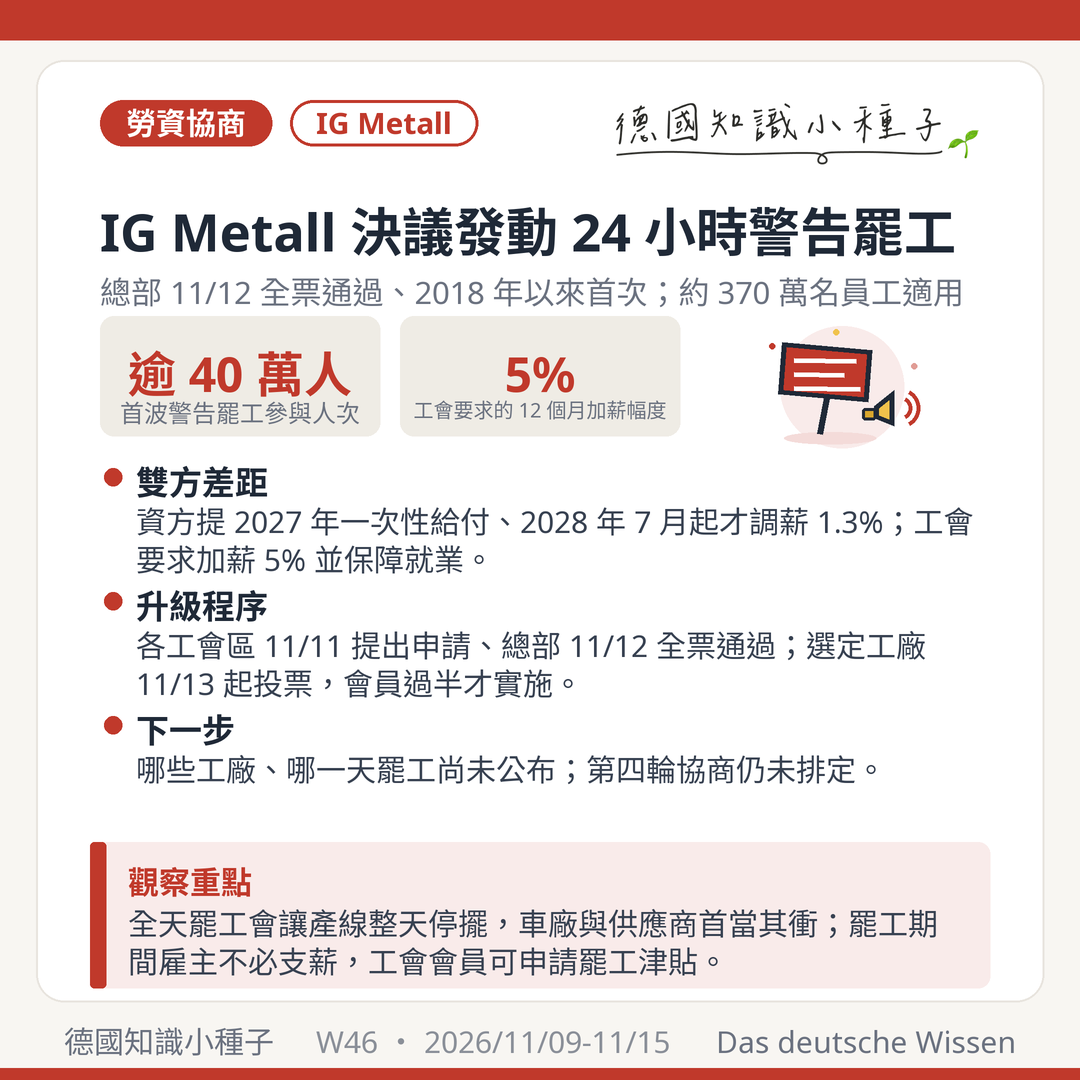
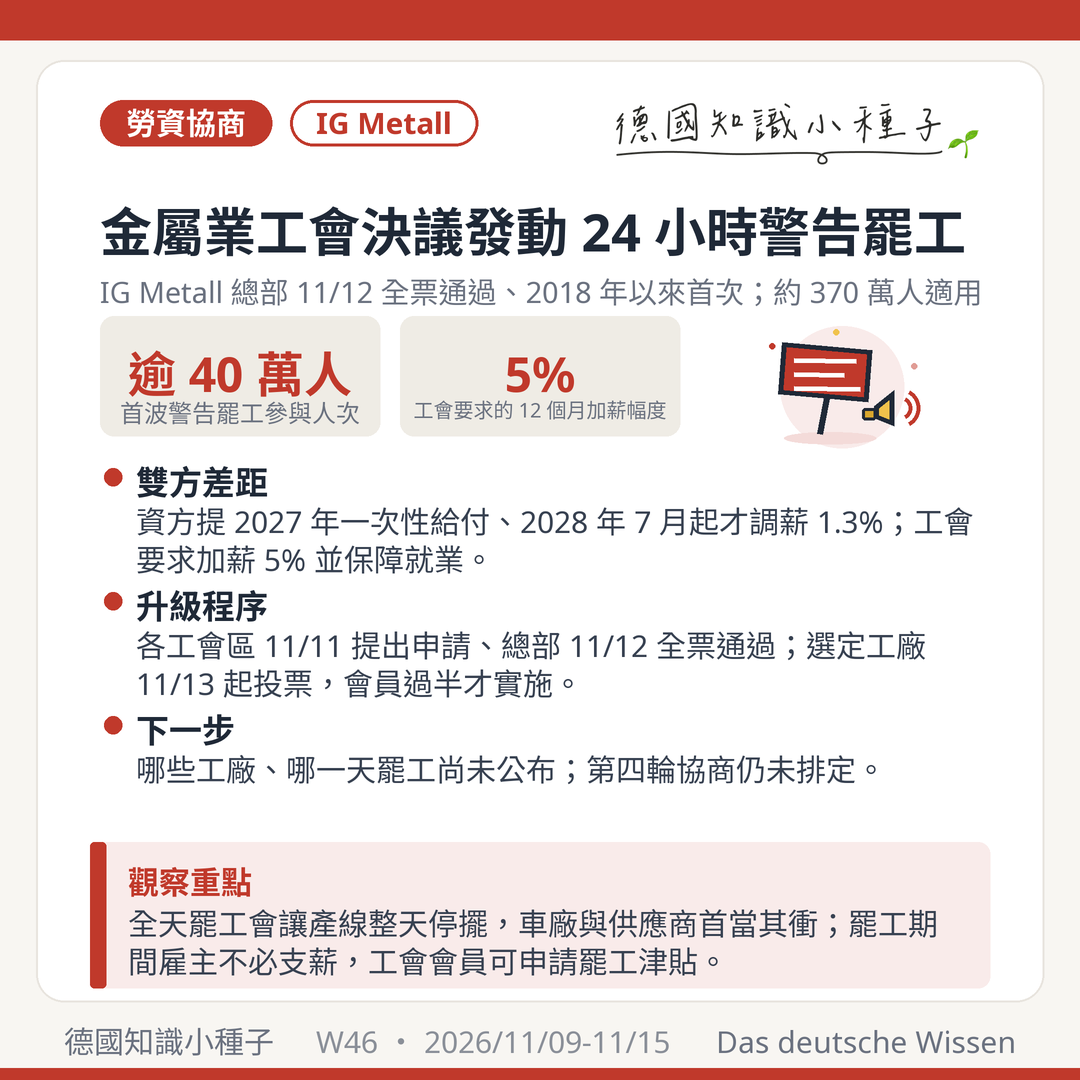
W46 標題改白話：「五賢人」→「政府經濟顧問」、「IG Metall」→「金屬業工會」，俗稱改在內文解釋
- 圖卡1 改名並重產（W46_圖卡1_經濟顧問建議取消63歲退休.png）、圖卡4 標題改「金屬業工會決議發動 24 小時警告罷工」
- data.js：excerpt／TOC／h2／lead／h3 改白話，卡1 新增「誰在建議」段說明經濟專家委員會與「五賢人」俗稱由來
- FB／IG／Threads 與 posts.json 同步；重建靜態頁
- CLAUDE.md 編輯方針新增「標題要淺顯易懂」

Changed region(s): [[0.0917, 0.1833, 0.9167, 0.3056]]

diff --git a/posts/weekly-digest.html b/posts/weekly-digest.html
@@ -6,15 +6,15 @@
 <meta name="viewport" content="width=device-width, initial-scale=1.0" />
 <meta name="referrer" content="strict-origin-when-cross-origin" />
 <title>德國知識小種子週報精選 | 德國知識小種子</title>
-<meta name="description" content="先看退休與荷包：經濟專家委員會（俗稱「五賢人」）11 月 11 日發表年度報告，把 2026 年經濟成長預測從 0.5% 上修到 1.3%，卻同時建議取消「63 歲退休」、撤回母親年金擴大，警告支出成長快於收入；內閣同日通過國家天然氣戰略儲備草案，目標 24 TWh，2027 年 10 月起向瓦斯用戶加收附加費，一般家" />
+<meta name="description" content="先看退休與荷包：聯邦政府的經濟顧問機構「經濟專家委員會」11 月 11 日發表年度報告，把 2026 年經濟成長預測從 0.5% 上修到 1.3%，卻同時建議取消「63 歲退休」、撤回母親年金擴大，警告支出成長快於收入；內閣同日通過國家天然氣戰略儲備草案，目標 24 TWh，2027 年 10 月起向瓦斯用戶加收附加費" />
 <meta name="robots" content="index, follow" />
 <link rel="canonical" href="https://taiwanese-in-germany.com/posts/weekly-digest.html" />
 <meta property="og:type" content="article" />
 <meta property="og:site_name" content="德國知識小種子 Das deutsche Wissen" />
 <meta property="og:title" content="德國知識小種子週報精選 | 德國知識小種子" />
-<meta property="og:description" content="先看退休與荷包：經濟專家委員會（俗稱「五賢人」）11 月 11 日發表年度報告，把 2026 年經濟成長預測從 0.5% 上修到 1.3%，卻同時建議取消「63 歲退休」、撤回母親年金擴大，警告支出成長快於收入；內閣同日通過國家天然氣戰略儲備草案，目標 24 TWh，2027 年 10 月起向瓦斯用戶加收附加費，一般家" />
+<meta property="og:description" content="先看退休與荷包：聯邦政府的經濟顧問機構「經濟專家委員會」11 月 11 日發表年度報告，把 2026 年經濟成長預測從 0.5% 上修到 1.3%，卻同時建議取消「63 歲退休」、撤回母親年金擴大，警告支出成長快於收入；內閣同日通過國家天然氣戰略儲備草案，目標 24 TWh，2027 年 10 月起向瓦斯用戶加收附加費" />
 <meta property="og:url" content="https://taiwanese-in-germany.com/posts/weekly-digest.html" />
-<meta property="og:image" content="https://taiwanese-in-germany.com/assets/images/2026/weekly/W46_圖卡1_五賢人建議取消63歲退休.png" />
+<meta property="og:image" content="https://taiwanese-in-germany.com/assets/images/2026/weekly/W46_圖卡1_經濟顧問建議取消63歲退休.png" />
 <meta property="og:locale" content="zh_TW" />
 <meta property="article:published_time" content="2026-11-15" />
 
@@ -23,9 +23,9 @@
 <meta property="article:tag" content="時事" />
 <meta name="twitter:card" content="summary_large_image" />
 <meta name="twitter:title" content="德國知識小種子週報精選 | 德國知識小種子" />
-<meta name="twitter:description" content="先看退休與荷包：經濟專家委員會（俗稱「五賢人」）11 月 11 日發表年度報告，把 2026 年經濟成長預測從 0.5% 上修到 1.3%，卻同時建議取消「63 歲退休」、撤回母親年金擴大，警告支出成長快於收入；內閣同日通過國家天然氣戰略儲備草案，目標 24 TWh，2027 年 10 月起向瓦斯用戶加收附加費，一般家" />
-<meta name="twitter:image" content="https://taiwanese-in-germany.com/assets/images/2026/weekly/W46_圖卡1_五賢人建議取消63歲退休.png" />
-<script type="application/ld+json">{"@context":"https://schema.org","@type":"BlogPosting","headline":"德國知識小種子週報精選","description":"先看退休與荷包：經濟專家委員會（俗稱「五賢人」）11 月 11 日發表年度報告，把 2026 年經濟成長預測從 0.5% 上修到 1.3%，卻同時建議取消「63 歲退休」、撤回母親年金擴大，警告支出成長快於收入；內閣同日通過國家天然氣戰略儲備草案，目標 24 TWh，2027 年 10 月起向瓦斯用戶加收附加費，一般家","image":"https://taiwanese-in-germany.com/assets/images/2026/weekly/W46_圖卡1_五賢人建議取消63歲退休.png","url":"https://taiwanese-in-germany.com/posts/weekly-digest.html","datePublished":"2026-11-15","dateModified":"2026-11-15","author":{"@type":"Person","name":"德國知識小種子","url":"https://taiwanese-in-germany.com"},"publisher":{"@type":"Organization","name":"德國知識小種子 Das deutsche Wissen","url":"https://taiwanese-in-germany.com","logo":{"@type":"ImageObject","url":"https://taiwanese-in-germany.com/assets/logo.png"}},"mainEntityOfPage":{"@type":"WebPage","@id":"https://taiwanese-in-germany.com/posts/weekly-digest.html"},"inLanguage":"zh-TW","keywords":"週報, 德國政策, 時事"}</script>
+<meta name="twitter:description" content="先看退休與荷包：聯邦政府的經濟顧問機構「經濟專家委員會」11 月 11 日發表年度報告，把 2026 年經濟成長預測從 0.5% 上修到 1.3%，卻同時建議取消「63 歲退休」、撤回母親年金擴大，警告支出成長快於收入；內閣同日通過國家天然氣戰略儲備草案，目標 24 TWh，2027 年 10 月起向瓦斯用戶加收附加費" />
+<meta name="twitter:image" content="https://taiwanese-in-germany.com/assets/images/2026/weekly/W46_圖卡1_經濟顧問建議取消63歲退休.png" />
+<script type="application/ld+json">{"@context":"https://schema.org","@type":"BlogPosting","headline":"德國知識小種子週報精選","description":"先看退休與荷包：聯邦政府的經濟顧問機構「經濟專家委員會」11 月 11 日發表年度報告，把 2026 年經濟成長預測從 0.5% 上修到 1.3%，卻同時建議取消「63 歲退休」、撤回母親年金擴大，警告支出成長快於收入；內閣同日通過國家天然氣戰略儲備草案，目標 24 TWh，2027 年 10 月起向瓦斯用戶加收附加費","image":"https://taiwanese-in-germany.com/assets/images/2026/weekly/W46_圖卡1_經濟顧問建議取消63歲退休.png","url":"https://taiwanese-in-germany.com/posts/weekly-digest.html","datePublished":"2026-11-15","dateModified":"2026-11-15","author":{"@type":"Person","name":"德國知識小種子","url":"https://taiwanese-in-germany.com"},"publisher":{"@type":"Organization","name":"德國知識小種子 Das deutsche Wissen","url":"https://taiwanese-in-germany.com","logo":{"@type":"ImageObject","url":"https://taiwanese-in-germany.com/assets/logo.png"}},"mainEntityOfPage":{"@type":"WebPage","@id":"https://taiwanese-in-germany.com/posts/weekly-digest.html"},"inLanguage":"zh-TW","keywords":"週報, 德國政策, 時事"}</script>
 <script type="application/ld+json">{"@context":"https://schema.org","@type":"BreadcrumbList","itemListElement":[{"@type":"ListItem","position":1,"name":"首頁","item":"https://taiwanese-in-germany.com/"},{"@type":"ListItem","position":2,"name":"德國時事","item":"https://taiwanese-in-germany.com/category.html?cat=%E5%BE%B7%E5%9C%8B%E6%99%82%E4%BA%8B"},{"@type":"ListItem","position":3,"name":"德國知識小種子週報精選","item":"https://taiwanese-in-germany.com/posts/weekly-digest.html"}]}</script>
 <link rel="stylesheet" href="/css/style.css" />
 <link rel="alternate" type="application/rss+xml" title="德國知識小種子 RSS" href="/feed.xml" />
@@ -132,14 +132,14 @@
     <div class="post-header__meta">
       <span>2026年11月15日 發布</span>
       <span class="post-header__sep">·</span>
-      <span>557 分鐘閱讀</span>
+      <span>558 分鐘閱讀</span>
     </div>
     <hr class="post-header__divider" />
   </header>
   <article class="post-content"><nav class="post-toc" aria-label="本篇目錄">
   <p class="post-toc__title">快速跳轉</p>
   <ul>
-    <li><a href="#nov9-15">11月9日–15日：五賢人上修成長並建議取消「63 歲退休」（2026 年成長預測 0.5% 上修至 1.3%、2027 年 1.0%，建議撤回母親年金擴大）、天然氣戰略儲備過內閣（目標 24 TWh、2027 年 10 月起加收附加費，一般家庭每年估多付約 4–7 €）、車廠同步縮手（賓士凍結在德投資並不排除關閉兩座廠、福斯喊停 Gamechanger 且累計減少職位逾 47,000 個、Audi 啟動壞天氣條款重談、BMW 二度下修財測）、IG Metall 決議發動 24 小時警告罷工（總部 11/12 全票通過、2018 年以來首次）、國防軍暗數研究（72% 女性軍人曾遭言語性騷擾、34 項行動計畫）</a></li>
+    <li><a href="#nov9-15">11月9日–15日：政府經濟顧問建議取消「63 歲退休」（經濟專家委員會年度報告，同時把 2026 年成長預測從 0.5% 上修至 1.3%、2027 年 1.0%，並建議撤回母親年金擴大）、天然氣戰略儲備過內閣（目標 24 TWh、2027 年 10 月起加收附加費，一般家庭每年估多付約 4–7 €）、車廠同步縮手（賓士凍結在德投資並不排除關閉兩座廠、福斯喊停 Gamechanger 且累計減少職位逾 47,000 個、Audi 啟動壞天氣條款重談、BMW 二度下修財測）、金屬業工會決議發動 24 小時警告罷工（IG Metall 總部 11/12 全票通過、2018 年以來首次）、國防軍暗數研究（72% 女性軍人曾遭言語性騷擾、34 項行動計畫）</a></li>
     <li><a href="#nov2-8">11月2日–8日：住址登記全面上網（內閣 11/4 通過行政命令、預計 12/1 生效，所有登記機關須開放線上遷入與遷居登記，已接入約 3,800 個機關、需 BundID 與線上身分功能）、Schaeffler 再減 2,660 個職位並關閉德國四處據點（歐洲共減 3,460 個職位、原則上不做經營性解僱、2030 年起每年省 3 億歐元、董事會自減 10% 薪資，汽車業就業 69.15 萬人創 2005 年來新低）、油價上限法草案（須連三週高於其他歐盟國家平均 5 個百分點以上才啟動、每次最長 3 個月，bft 與 DGB 都批評；燃油稅減免 12/31 到期）、駕照改革通過（平均約 3,400 €，理論課可線上、特殊路況課不再規定 12 趟、親友可陪練，主要新規 2027/7/1 生效）、西巴爾幹工作名額減半（每年 5 萬降到 2.5 萬、2027 年起適用，營建業估少約 9,000 人）</a></li>
     <li><a href="#oct26-nov1">10月26日–11月1日：十一月新制（11/1 起歐盟外小包裹在 3 € 定額關稅之外每種商品再加收 2 € 處理費、11/20 起「先買後付」與 200 € 以下小額貸款須審查信用、德鐵家庭票常態化最多 5 人 IC／ICE 來回 99.99 €、汽車保險換約解約信須 11/30 前送達）、金屬電機業 11/1 起可發動警告性罷工（約 370 萬名員工，資方 10/27 首度出價 2027 年一次性給付與 2028 年 7 月調薪 1.3%，IG Metall 要求 12 個月加薪 5%）、賓士下修財測（第三季中國銷量年減 31%、轎車利潤率目標從 3–5% 降到 2–3%，12 月起再以資遣方案縮減數千個行政職位）、德日聯合聲明重申台海和平穩定（Merz 10/26–30 訪新加坡、日本、南韓，與高市早苗簽署關鍵原物料意向書；Steinmeier 同週國事訪問中國、促習近平縮減貿易順差）、景氣回溫（十月通膨初值降到 2.8%、第三季 GDP 季增 0.2%、ifo 景氣指數連升第六個月到 90.2 點）、核廢料最終處置場候選範圍縮到國土 5% 以下（BGE 10/27 公布、5 個邦完全出局、2027 年底提出候選區域）</a></li>
     <li><a href="#oct19-25">10月19日–25日：週日凌晨調回冬令時間（10/25 凌晨 3:00 撥回 2:00、台德時差變 7 小時，歐盟廢除案 2019 年起卡在理事會）、明年瓦斯費恐漲 10–20%（九月生產者物價年增 6.7% 為 2023 年 3 月以來最大、能源年增 14.9%，Verivox 預估 1 月起依方案調漲、年用 2 萬度家庭多付 250–500 €，基本供應調價須 11/20 前通知）、柏林擬將大房東約 16 萬戶收歸公有（柏林邦〔Berlin〕SPD 與綠黨 10/19 同意與左翼黨組閣談判，持有逾 1 萬戶的企業超出部分依基本法第 15 條轉為公有、補償金上限 160 億歐元，Vonovia 稱違憲）、福斯傳凍薪到 2030 年（《南德日報》10/19 披露、IG Metall 證實，全球約 66 萬名員工，公司不評論；金屬電機業和平義務 10/31 到期）、Bosch 汽車事業拆成子公司（10/22 宣布 Mobility 與三個中央服務單位改組為 4 家全資子公司、約 6.25 萬名在德員工 2027/8/1 移轉，不另外裁員）、45 年免扣減退休的育兒與照護年資恐不再採計（聯盟黨構想、SPD 反對，退休改革恐延到 2027 年）、菸稅漲價法因條文疏失 10/21 提前生效（海關暫不執行、菸價暫不變；2030 年一包約 11.78 €）、投資高峰會企業承諾約 2,300 億歐元（經濟部統計 2,286 億歐元、不少為舊案）</a></li>
@@ -174,12 +174,13 @@
   </ul>
 </nav>
 
-<h2 id="nov9-15">11月9日–15日：經濟專家委員會（俗稱「五賢人」）上修成長並建議取消「63 歲退休」（2026 年成長預測從 0.5% 上修至 1.3%、2027 年 1.0%，同時建議撤回母親年金擴大）、天然氣戰略儲備過內閣（11/11 通過、儲備目標 24 TWh，2027 年 10 月起向瓦斯用戶加收附加費、一般家庭每年估多付約 4–7 €）、車廠同步縮手（賓士 11/12 凍結所有在德新投資、不排除關閉兩座廠；福斯喊停 Wolfsburg「Gamechanger」計畫，10/23 再減 12,000 個職位、累計逾 47,000 個；Audi 啟動壞天氣條款重談未來協議；BMW 二度下修財測、自願離職方案提前關閉）、IG Metall 決議發動 24 小時警告罷工（總部 11/12 全票通過、2018 年以來首次，選定工廠 11/13 起投票）、國防軍性騷擾暗數研究（72% 女性軍人曾遭言語性騷擾、暗數為通報數 3–6 倍，國防部提出 34 項行動計畫）</h2>
-<p>這週的重頭戲是<strong>經濟專家委員會（Sachverständigenrat，俗稱「五賢人」）</strong>11 月 11 日交給總理 Merz 的年度報告：經濟成長預測大幅上修，但委員會同時警告財政缺口，並把矛頭指向<strong>退休制度</strong>——建議取消「63 歲退休」、撤回母親年金擴大。<strong>荷包方面</strong>，內閣同一天通過<strong>國家天然氣戰略儲備</strong>的草案，2027 年 10 月起將向瓦斯用戶加收一筆小額附加費。<strong>汽車與金屬業</strong>則多線告急：賓士（Mercedes-Benz）宣布<strong>凍結所有在德新投資</strong>、不排除關廠，福斯（Volkswagen）喊停 Wolfsburg 總廠的現代化計畫，Audi 與 BMW 也同步撙節；IG Metall 總部則在 11 月 12 日決議發動<strong>全天警告罷工</strong>，是 2018 年以來第一次。最後，國防部公布首份大規模<strong>暗數研究</strong>，國防軍內部性騷擾的規模遠超過通報數字。</p>
+<h2 id="nov9-15">11月9日–15日：政府經濟顧問建議取消「63 歲退休」（經濟專家委員會年度報告，同時把 2026 年成長預測從 0.5% 上修至 1.3%、2027 年 1.0%，並建議撤回母親年金擴大）、天然氣戰略儲備過內閣（11/11 通過、儲備目標 24 TWh，2027 年 10 月起向瓦斯用戶加收附加費、一般家庭每年估多付約 4–7 €）、車廠同步縮手（賓士 11/12 凍結所有在德新投資、不排除關閉兩座廠；福斯喊停 Wolfsburg「Gamechanger」計畫，10/23 再減 12,000 個職位、累計逾 47,000 個；Audi 啟動壞天氣條款重談未來協議；BMW 二度下修財測、自願離職方案提前關閉）、金屬業工會決議發動 24 小時警告罷工（IG Metall 總部 11/12 全票通過、2018 年以來首次，選定工廠 11/13 起投票）、國防軍性騷擾暗數研究（72% 女性軍人曾遭言語性騷擾、暗數為通報數 3–6 倍，國防部提出 34 項行動計畫）</h2>
+<p>這週的重頭戲是聯邦政府的經濟顧問機構<strong>經濟專家委員會（Sachverständigenrat）</strong>11 月 11 日交給總理 Merz 的年度報告：經濟成長預測大幅上修，但委員會同時警告財政缺口，並把矛頭指向<strong>退休制度</strong>——建議取消「63 歲退休」、撤回母親年金擴大。<strong>荷包方面</strong>，內閣同一天通過<strong>國家天然氣戰略儲備</strong>的草案，2027 年 10 月起將向瓦斯用戶加收一筆小額附加費。<strong>汽車與金屬業</strong>則多線告急：賓士（Mercedes-Benz）宣布<strong>凍結所有在德新投資</strong>、不排除關廠，福斯（Volkswagen）喊停 Wolfsburg 總廠的現代化計畫，Audi 與 BMW 也同步撙節；金屬業工會 IG Metall 總部則在 11 月 12 日決議發動<strong>全天警告罷工</strong>，是 2018 年以來第一次。最後，國防部公布首份大規模<strong>暗數研究</strong>，國防軍內部性騷擾的規模遠超過通報數字。</p>
 
-<img src="/assets/images/2026/weekly/W46_圖卡1_五賢人建議取消63歲退休.png" alt="德國經濟專家委員會Sachverständigenrat俗稱五賢人Wirtschaftsweise 2026年11月11日年度報告Jahresgutachten 2026/27 2026年經濟成長預測從0.5%上修至1.3% 2027年1.0%原0.8% 成長動能為出口與基礎建設氣候保護國防支出 建議取消63歲退休abschlagsfreie Rente für besonders langjährig Versicherte 撤回母親年金擴大Mütterrente III 聯邦與社會保險支出成長快於收入 總理Merz接受報告">
-<h3>五賢人上修成長、建議取消「63 歲退休」：報告沒有約束力，但點燃新一輪退休論戰</h3>
-<p><strong>成長預測大幅上修：</strong>經濟專家委員會 <strong>11 月 11 日</strong>發表 2026/27 年度報告，把 2026 年的實質經濟成長預測從春季的 <strong>0.5% 上修到 1.3%</strong>，2027 年則從 0.8% 上修到 <strong>1.0%</strong>。委員會指出，主要動能來自<strong>出口回溫</strong>，以及政府在<strong>基礎建設、氣候保護與國防</strong>上的支出；春季報告之所以保守，是因為當時伊朗戰爭推升能源價格、壓抑景氣。這次上修的方向與 9 月主要經濟研究機構的秋季聯合預測（2026 年同為 1.3%）一致。</p>
+<img src="/assets/images/2026/weekly/W46_圖卡1_經濟顧問建議取消63歲退休.png" alt="德國經濟專家委員會Sachverständigenrat俗稱五賢人Wirtschaftsweise 2026年11月11日年度報告Jahresgutachten 2026/27 2026年經濟成長預測從0.5%上修至1.3% 2027年1.0%原0.8% 成長動能為出口與基礎建設氣候保護國防支出 建議取消63歲退休abschlagsfreie Rente für besonders langjährig Versicherte 撤回母親年金擴大Mütterrente III 聯邦與社會保險支出成長快於收入 總理Merz接受報告">
+<h3>政府經濟顧問建議取消「63 歲退休」：成長預測上修，但點燃新一輪退休論戰</h3>
+<p><strong>誰在建議：</strong>經濟專家委員會（Sachverständigenrat zur Begutachtung der gesamtwirtschaftlichen Entwicklung）依 1963 年的法律設立，由<strong>五位經濟學家</strong>組成，每年秋天向聯邦政府提交獨立的經濟評估，政府必須對報告提出書面回應，但不受其約束。因為成員固定是五位專家，德國媒體習慣稱他們為「Wirtschaftsweise」（經濟智者），中文常譯作「五賢人」。</p>
+<p><strong>成長預測大幅上修：</strong>委員會 <strong>11 月 11 日</strong>發表 2026/27 年度報告，把 2026 年的實質經濟成長預測從春季的 <strong>0.5% 上修到 1.3%</strong>，2027 年則從 0.8% 上修到 <strong>1.0%</strong>。委員會指出，主要動能來自<strong>出口回溫</strong>，以及政府在<strong>基礎建設、氣候保護與國防</strong>上的支出；春季報告之所以保守，是因為當時伊朗戰爭推升能源價格、壓抑景氣。這次上修的方向與 9 月主要經濟研究機構的秋季聯合預測（2026 年同為 1.3%）一致。</p>
 <p><strong>退休制度成為焦點：</strong>報告最受矚目的是撙節建議。委員會主張取消<strong>「63 歲退休」</strong>——正式名稱是「特長年資投保者免扣減退休金」（abschlagsfreie Rente für besonders langjährig Versicherte），繳滿 45 年保費的人可提前退休、不必扣減年金；這個名稱其實早已名不符實，法定提前門檻已隨出生年次逐步提高。委員會也建議撤回聯合政府已通過的<strong>母親年金擴大（Mütterrente III）</strong>，也就是讓 1992 年以前出生子女的育兒年資進一步加計，理由是對聯邦預算負擔過重；另據報導，委員會也主張完整落實退休保障委員會（Alterssicherungskommission）的建議。</p>
 <p><strong>為何要砍：</strong>委員會的核心論點是，<strong>聯邦與社會保險的支出成長快於收入</strong>，即使經濟回溫，光靠成長也補不了缺口；另有報導引述報告，指以舉債支應的國防支出可能讓長期財政缺口持續擴大。換句話說，這份報告雖然上修了成長，傳達的卻是「好消息不夠用」的訊息。</p>
 <p><strong>政策觀察：</strong>年度報告<strong>沒有法律約束力</strong>，但它是政府與國會討論經濟政策的重要參考。總理 Merz 接受報告時表示大致認同委員會對財政的判斷；不過「63 歲退休」與母親年金分別是 SPD 與 CSU 的代表性政策，聯合政府內部要動這兩項並不容易。關於「45 年」年資是否該納入育兒與照護期間的討論，可參考本站 <a href="#oct19-25">W43 的整理</a>。對已在德國工作、繳納退休保險的讀者來說，眼前不會有立即改變，但退休年齡與給付條件仍在變動，建議定期查看德國退休保險（Deutsche Rentenversicherung）寄來的年金資訊（Renteninformation）。</p>
@@ -204,7 +205,7 @@
 <p class="post-sources">📚 來源：<a href="https://www.handelsblatt.com/unternehmen/industrie/mercedes-autohersteller-stoppt-alle-investitionen-in-deutschland/100269485.html" target="_blank" rel="noopener noreferrer">Handelsblatt：Mercedes stoppt alle Investitionen in Deutschland</a> · <a href="https://www.stuttgarter-zeitung.de/wirtschaft/internes-interview-noch-mehr-jobs-in-gefahr-mercedes-stoppt-alle-investitionen-in-deutschland-79696560.html" target="_blank" rel="noopener noreferrer">Stuttgarter Zeitung：Mercedes stoppt alle Investitionen in Deutschland</a> · <a href="https://www.handelsblatt.com/unternehmen/industrie/volkswagen-vw-stoppt-projekt-gamechanger-was-wirklich-dahintersteckt/100269104.html" target="_blank" rel="noopener noreferrer">Handelsblatt：VW stoppt Projekt „Gamechanger"</a> · <a href="https://www.wiwo.de/unternehmen/auto/vw-stoppt-gamechanger-aus-fuer-grossguss-empoert-betriebsrat/100269111.html" target="_blank" rel="noopener noreferrer">WirtschaftsWoche：Aus für Großguss empört Betriebsrat</a> · <a href="https://www.onvista.de/news/2026/11-11-vw-stoppt-produktionsprojekt-gamechanger-0-20-26575142" target="_blank" rel="noopener noreferrer">onvista（Reuters）：VW stoppt Produktionsprojekt „Gamechanger"</a> · <a href="https://www.igmetall-wob.de/meldung/konzernvorstand-beerdigt-gamechanger-1" target="_blank" rel="noopener noreferrer">IG Metall Wolfsburg：Konzernvorstand beerdigt Gamechanger</a> · <a href="https://www.t-online.de/finanzen/aktuelles/wirtschaft/id_101495606/volkswagen-will-12000-weitere-stellen-abbauen.html" target="_blank" rel="noopener noreferrer">t-online：Volkswagen will 12.000 weitere Stellen abbauen</a> · <a href="https://www.auto-motor-und-sport.de/verkehr/vw-stellenabbau-weitere-12-000-arbeitsplaetze-bedroht/" target="_blank" rel="noopener noreferrer">auto motor und sport：Weitere 12.000 Arbeitsplätze bedroht</a> · <a href="https://www.handelsblatt.com/unternehmen/industrie/autobauer-audi-will-mit-betriebsrat-ueber-weitere-einsparungen-verhandeln/100260842.html" target="_blank" rel="noopener noreferrer">Handelsblatt：Audi will mit Betriebsrat über weitere Einsparungen verhandeln</a> · <a href="https://www.boersen-zeitung.de/unternehmen-branchen/schlechtwetter-in-neckarsulm-audi-bereitet-stellenabbau-vor" target="_blank" rel="noopener noreferrer">Börsen-Zeitung：Schlechtwetter in Neckarsulm</a> · <a href="https://www.audi.com/de/medieninformationen/betriebsrat-fordert-klarheit-und-zukunftsperspektiven-fuer-audi-18372" target="_blank" rel="noopener noreferrer">Audi：Betriebsrat fordert Klarheit und Zukunftsperspektiven</a> · <a href="https://www.handelsblatt.com/politik/deutschland/autoindustrie-sparprogramm-sorgt-fuer-gewinnwarnung-bei-bmw/100267102.html" target="_blank" rel="noopener noreferrer">Handelsblatt：Sparprogramm sorgt für Gewinnwarnung bei BMW</a> · <a href="https://www.elektroauto-news.net/news/viele-wollen-weg-bmw-beendet-abfindungsprogramm-vorzeitig" target="_blank" rel="noopener noreferrer">elektroauto-news：BMW beendet Abfindungsprogramm vorzeitig</a> · <a href="https://www.kurierverlag.de/wirtschaft/wkw-autozulieferer-insolvenz-verkauf-450-jobs-gestrichen-mitarbeiter-gehaltsverzicht-zr-94579327.html" target="_blank" rel="noopener noreferrer">Kurierverlag：WKW nach Insolvenz verkauft</a></p>
 
 <img src="/assets/images/2026/weekly/W46_圖卡4_IGMetall決議24小時罷工.png" alt="德國金屬電機業團體協約協商Metall- und Elektroindustrie Tarifrunde 2026 第三輪協商11月9日無果 IG Metall各工會區11月11日申請24小時警告罷工24-Stunden-Warnstreiks 總部11月12日全票通過 2018年以來首次 選定工廠11月13日起會員投票須過半同意 第四輪協商未排定 首波警告罷工逾40萬人次 IG Metall要求12個月加薪5% 資方Gesamtmetall提2027年一次性給付 2028年7月調薪1.3% 約370萬名員工">
-<h3>IG Metall 決議發動 24 小時警告罷工：2018 年以來首次，選定工廠 11/13 起投票</h3>
+<h3>金屬業工會 IG Metall 決議發動 24 小時警告罷工：2018 年以來首次，選定工廠 11/13 起投票</h3>
 <p><strong>從幾小時到一整天：</strong>金屬電機業約 <strong>370 萬名員工</strong>適用的團體協約協商，第三輪談判在 <strong>11 月 9 日</strong>無果而終。各工會區的協約委員會 <strong>11 月 11 日</strong>向 IG Metall 總部申請發動<strong>24 小時警告罷工</strong>，總部 <strong>11 月 12 日全票通過</strong>——這是 IG Metall <strong>2018 年以來第一次</strong>動用全天警告罷工。依 ZDF 的說法，這是發動罷工投票（Urabstimmung）與無限期罷工之前的最後一個升級階段。依工會規定，被選定的工廠從 <strong>11 月 13 日</strong>起讓會員投票，<strong>過半同意</strong>才能實施；哪些工廠、哪一天罷工，工會尚未公布，第四輪協商也還沒排定。</p>
 <p><strong>雙方差距：</strong>IG Metall 要求 <strong>12 個月加薪 5%</strong>，並要求保障就業。資方提出的方案是 <strong>2027 年 7 月一次性給付</strong>，<strong>2028 年 7 月起才永久調薪 1.3%</strong>，遭工會拒絕。和平義務 10 月 31 日結束後（見本站 <a href="#oct26-nov1">W44</a>），工會從 11 月 1 日起發動第一波數小時的警告罷工，依 IG Metall 統計參與人次<strong>已逾 40 萬</strong>（巴伐利亞邦約 7.5 萬人次）。巴伐利亞邦工會區已表示，在可能的 24 小時罷工之前不會再排新的協商日期。</p>
 <p><strong>各方觀點：</strong>工會把就業保障與加薪綁在一起，主因是汽車業與供應商接連宣布裁員；資方則以產業危機為由壓低調薪幅度，並希望保留讓陷入困境的企業偏離協約的彈性。據報導，雙方在<strong>薪資、企業例外條款與就業保障</strong>三方面都還相距甚遠，目前也沒有排定下一輪協商日期。</p>

diff --git a/js/data.js b/js/data.js
@@ -1298,14 +1298,14 @@ const POSTS = [
     date: '2026-11-15',
     categories: ['德國時事'],
     tags: ['週報', '德國政策', '時事'],
-    excerpt: '先看退休與荷包：經濟專家委員會（俗稱「五賢人」）11 月 11 日發表年度報告，把 2026 年經濟成長預測從 0.5% 上修到 1.3%，卻同時建議取消「63 歲退休」、撤回母親年金擴大，警告支出成長快於收入；內閣同日通過國家天然氣戰略儲備草案，目標 24 TWh，2027 年 10 月起向瓦斯用戶加收附加費，一般家庭每年估多付約 4–7 €。汽車業多線告急：賓士（Mercedes-Benz）11 月 12 日宣布凍結所有在德新投資、不排除關閉兩座廠，福斯（Volkswagen）喊停 Wolfsburg 總廠「Gamechanger」大型壓鑄計畫、2030 年前累計減少的職位已逾 47,000 個，Audi 重談未來協議、BMW 二度下修財測；IG Metall 總部 11 月 12 日決議發動 24 小時警告罷工，2018 年以來首次。最後，國防部公布暗數研究：72% 女性軍人曾遭言語性騷擾，實際案件為通報數的 3 到 6 倍。',
+    excerpt: '先看退休與荷包：聯邦政府的經濟顧問機構「經濟專家委員會」11 月 11 日發表年度報告，把 2026 年經濟成長預測從 0.5% 上修到 1.3%，卻同時建議取消「63 歲退休」、撤回母親年金擴大，警告支出成長快於收入；內閣同日通過國家天然氣戰略儲備草案，目標 24 TWh，2027 年 10 月起向瓦斯用戶加收附加費，一般家庭每年估多付約 4–7 €。汽車業多線告急：賓士（Mercedes-Benz）11 月 12 日宣布凍結所有在德新投資、不排除關閉兩座廠，福斯（Volkswagen）喊停 Wolfsburg 總廠「Gamechanger」大型壓鑄計畫、2030 年前累計減少的職位已逾 47,000 個，Audi 重談未來協議、BMW 二度下修財測；金屬業工會 IG Metall 總部 11 月 12 日決議發動 24 小時警告罷工，2018 年以來首次。最後，國防部公布暗數研究：72% 女性軍人曾遭言語性騷擾，實際案件為通報數的 3 到 6 倍。',
 
     emoji: '🌱',
     content: `
 <nav class="post-toc" aria-label="本篇目錄">
   <p class="post-toc__title">快速跳轉</p>
   <ul>
-    <li><a href="#nov9-15">11月9日–15日：五賢人上修成長並建議取消「63 歲退休」（2026 年成長預測 0.5% 上修至 1.3%、2027 年 1.0%，建議撤回母親年金擴大）、天然氣戰略儲備過內閣（目標 24 TWh、2027 年 10 月起加收附加費，一般家庭每年估多付約 4–7 €）、車廠同步縮手（賓士凍結在德投資並不排除關閉兩座廠、福斯喊停 Gamechanger 且累計減少職位逾 47,000 個、Audi 啟動壞天氣條款重談、BMW 二度下修財測）、IG Metall 決議發動 24 小時警告罷工（總部 11/12 全票通過、2018 年以來首次）、國防軍暗數研究（72% 女性軍人曾遭言語性騷擾、34 項行動計畫）</a></li>
+    <li><a href="#nov9-15">11月9日–15日：政府經濟顧問建議取消「63 歲退休」（經濟專家委員會年度報告，同時把 2026 年成長預測從 0.5% 上修至 1.3%、2027 年 1.0%，並建議撤回母親年金擴大）、天然氣戰略儲備過內閣（目標 24 TWh、2027 年 10 月起加收附加費，一般家庭每年估多付約 4–7 €）、車廠同步縮手（賓士凍結在德投資並不排除關閉兩座廠、福斯喊停 Gamechanger 且累計減少職位逾 47,000 個、Audi 啟動壞天氣條款重談、BMW 二度下修財測）、金屬業工會決議發動 24 小時警告罷工（IG Metall 總部 11/12 全票通過、2018 年以來首次）、國防軍暗數研究（72% 女性軍人曾遭言語性騷擾、34 項行動計畫）</a></li>
     <li><a href="#nov2-8">11月2日–8日：住址登記全面上網（內閣 11/4 通過行政命令、預計 12/1 生效，所有登記機關須開放線上遷入與遷居登記，已接入約 3,800 個機關、需 BundID 與線上身分功能）、Schaeffler 再減 2,660 個職位並關閉德國四處據點（歐洲共減 3,460 個職位、原則上不做經營性解僱、2030 年起每年省 3 億歐元、董事會自減 10% 薪資，汽車業就業 69.15 萬人創 2005 年來新低）、油價上限法草案（須連三週高於其他歐盟國家平均 5 個百分點以上才啟動、每次最長 3 個月，bft 與 DGB 都批評；燃油稅減免 12/31 到期）、駕照改革通過（平均約 3,400 €，理論課可線上、特殊路況課不再規定 12 趟、親友可陪練，主要新規 2027/7/1 生效）、西巴爾幹工作名額減半（每年 5 萬降到 2.5 萬、2027 年起適用，營建業估少約 9,000 人）</a></li>
     <li><a href="#oct26-nov1">10月26日–11月1日：十一月新制（11/1 起歐盟外小包裹在 3 € 定額關稅之外每種商品再加收 2 € 處理費、11/20 起「先買後付」與 200 € 以下小額貸款須審查信用、德鐵家庭票常態化最多 5 人 IC／ICE 來回 99.99 €、汽車保險換約解約信須 11/30 前送達）、金屬電機業 11/1 起可發動警告性罷工（約 370 萬名員工，資方 10/27 首度出價 2027 年一次性給付與 2028 年 7 月調薪 1.3%，IG Metall 要求 12 個月加薪 5%）、賓士下修財測（第三季中國銷量年減 31%、轎車利潤率目標從 3–5% 降到 2–3%，12 月起再以資遣方案縮減數千個行政職位）、德日聯合聲明重申台海和平穩定（Merz 10/26–30 訪新加坡、日本、南韓，與高市早苗簽署關鍵原物料意向書；Steinmeier 同週國事訪問中國、促習近平縮減貿易順差）、景氣回溫（十月通膨初值降到 2.8%、第三季 GDP 季增 0.2%、ifo 景氣指數連升第六個月到 90.2 點）、核廢料最終處置場候選範圍縮到國土 5% 以下（BGE 10/27 公布、5 個邦完全出局、2027 年底提出候選區域）</a></li>
     <li><a href="#oct19-25">10月19日–25日：週日凌晨調回冬令時間（10/25 凌晨 3:00 撥回 2:00、台德時差變 7 小時，歐盟廢除案 2019 年起卡在理事會）、明年瓦斯費恐漲 10–20%（九月生產者物價年增 6.7% 為 2023 年 3 月以來最大、能源年增 14.9%，Verivox 預估 1 月起依方案調漲、年用 2 萬度家庭多付 250–500 €，基本供應調價須 11/20 前通知）、柏林擬將大房東約 16 萬戶收歸公有（柏林邦〔Berlin〕SPD 與綠黨 10/19 同意與左翼黨組閣談判，持有逾 1 萬戶的企業超出部分依基本法第 15 條轉為公有、補償金上限 160 億歐元，Vonovia 稱違憲）、福斯傳凍薪到 2030 年（《南德日報》10/19 披露、IG Metall 證實，全球約 66 萬名員工，公司不評論；金屬電機業和平義務 10/31 到期）、Bosch 汽車事業拆成子公司（10/22 宣布 Mobility 與三個中央服務單位改組為 4 家全資子公司、約 6.25 萬名在德員工 2027/8/1 移轉，不另外裁員）、45 年免扣減退休的育兒與照護年資恐不再採計（聯盟黨構想、SPD 反對，退休改革恐延到 2027 年）、菸稅漲價法因條文疏失 10/21 提前生效（海關暫不執行、菸價暫不變；2030 年一包約 11.78 €）、投資高峰會企業承諾約 2,300 億歐元（經濟部統計 2,286 億歐元、不少為舊案）</a></li>
@@ -1340,12 +1340,13 @@ const POSTS = [
   </ul>
 </nav>
 
-<h2 id="nov9-15">11月9日–15日：經濟專家委員會（俗稱「五賢人」）上修成長並建議取消「63 歲退休」（2026 年成長預測從 0.5% 上修至 1.3%、2027 年 1.0%，同時建議撤回母親年金擴大）、天然氣戰略儲備過內閣（11/11 通過、儲備目標 24 TWh，2027 年 10 月起向瓦斯用戶加收附加費、一般家庭每年估多付約 4–7 €）、車廠同步縮手（賓士 11/12 凍結所有在德新投資、不排除關閉兩座廠；福斯喊停 Wolfsburg「Gamechanger」計畫，10/23 再減 12,000 個職位、累計逾 47,000 個；Audi 啟動壞天氣條款重談未來協議；BMW 二度下修財測、自願離職方案提前關閉）、IG Metall 決議發動 24 小時警告罷工（總部 11/12 全票通過、2018 年以來首次，選定工廠 11/13 起投票）、國防軍性騷擾暗數研究（72% 女性軍人曾遭言語性騷擾、暗數為通報數 3–6 倍，國防部提出 34 項行動計畫）</h2>
-<p>這週的重頭戲是<strong>經濟專家委員會（Sachverständigenrat，俗稱「五賢人」）</strong>11 月 11 日交給總理 Merz 的年度報告：經濟成長預測大幅上修，但委員會同時警告財政缺口，並把矛頭指向<strong>退休制度</strong>——建議取消「63 歲退休」、撤回母親年金擴大。<strong>荷包方面</strong>，內閣同一天通過<strong>國家天然氣戰略儲備</strong>的草案，2027 年 10 月起將向瓦斯用戶加收一筆小額附加費。<strong>汽車與金屬業</strong>則多線告急：賓士（Mercedes-Benz）宣布<strong>凍結所有在德新投資</strong>、不排除關廠，福斯（Volkswagen）喊停 Wolfsburg 總廠的現代化計畫，Audi 與 BMW 也同步撙節；IG Metall 總部則在 11 月 12 日決議發動<strong>全天警告罷工</strong>，是 2018 年以來第一次。最後，國防部公布首份大規模<strong>暗數研究</strong>，國防軍內部性騷擾的規模遠超過通報數字。</p>
+<h2 id="nov9-15">11月9日–15日：政府經濟顧問建議取消「63 歲退休」（經濟專家委員會年度報告，同時把 2026 年成長預測從 0.5% 上修至 1.3%、2027 年 1.0%，並建議撤回母親年金擴大）、天然氣戰略儲備過內閣（11/11 通過、儲備目標 24 TWh，2027 年 10 月起向瓦斯用戶加收附加費、一般家庭每年估多付約 4–7 €）、車廠同步縮手（賓士 11/12 凍結所有在德新投資、不排除關閉兩座廠；福斯喊停 Wolfsburg「Gamechanger」計畫，10/23 再減 12,000 個職位、累計逾 47,000 個；Audi 啟動壞天氣條款重談未來協議；BMW 二度下修財測、自願離職方案提前關閉）、金屬業工會決議發動 24 小時警告罷工（IG Metall 總部 11/12 全票通過、2018 年以來首次，選定工廠 11/13 起投票）、國防軍性騷擾暗數研究（72% 女性軍人曾遭言語性騷擾、暗數為通報數 3–6 倍，國防部提出 34 項行動計畫）</h2>
+<p>這週的重頭戲是聯邦政府的經濟顧問機構<strong>經濟專家委員會（Sachverständigenrat）</strong>11 月 11 日交給總理 Merz 的年度報告：經濟成長預測大幅上修，但委員會同時警告財政缺口，並把矛頭指向<strong>退休制度</strong>——建議取消「63 歲退休」、撤回母親年金擴大。<strong>荷包方面</strong>，內閣同一天通過<strong>國家天然氣戰略儲備</strong>的草案，2027 年 10 月起將向瓦斯用戶加收一筆小額附加費。<strong>汽車與金屬業</strong>則多線告急：賓士（Mercedes-Benz）宣布<strong>凍結所有在德新投資</strong>、不排除關廠，福斯（Volkswagen）喊停 Wolfsburg 總廠的現代化計畫，Audi 與 BMW 也同步撙節；金屬業工會 IG Metall 總部則在 11 月 12 日決議發動<strong>全天警告罷工</strong>，是 2018 年以來第一次。最後，國防部公布首份大規模<strong>暗數研究</strong>，國防軍內部性騷擾的規模遠超過通報數字。</p>
 
-<img src="assets/images/2026/weekly/W46_圖卡1_五賢人建議取消63歲退休.png" alt="德國經濟專家委員會Sachverständigenrat俗稱五賢人Wirtschaftsweise 2026年11月11日年度報告Jahresgutachten 2026/27 2026年經濟成長預測從0.5%上修至1.3% 2027年1.0%原0.8% 成長動能為出口與基礎建設氣候保護國防支出 建議取消63歲退休abschlagsfreie Rente für besonders langjährig Versicherte 撤回母親年金擴大Mütterrente III 聯邦與社會保險支出成長快於收入 總理Merz接受報告">
-<h3>五賢人上修成長、建議取消「63 歲退休」：報告沒有約束力，但點燃新一輪退休論戰</h3>
-<p><strong>成長預測大幅上修：</strong>經濟專家委員會 <strong>11 月 11 日</strong>發表 2026/27 年度報告，把 2026 年的實質經濟成長預測從春季的 <strong>0.5% 上修到 1.3%</strong>，2027 年則從 0.8% 上修到 <strong>1.0%</strong>。委員會指出，主要動能來自<strong>出口回溫</strong>，以及政府在<strong>基礎建設、氣候保護與國防</strong>上的支出；春季報告之所以保守，是因為當時伊朗戰爭推升能源價格、壓抑景氣。這次上修的方向與 9 月主要經濟研究機構的秋季聯合預測（2026 年同為 1.3%）一致。</p>
+<img src="assets/images/2026/weekly/W46_圖卡1_經濟顧問建議取消63歲退休.png" alt="德國經濟專家委員會Sachverständigenrat俗稱五賢人Wirtschaftsweise 2026年11月11日年度報告Jahresgutachten 2026/27 2026年經濟成長預測從0.5%上修至1.3% 2027年1.0%原0.8% 成長動能為出口與基礎建設氣候保護國防支出 建議取消63歲退休abschlagsfreie Rente für besonders langjährig Versicherte 撤回母親年金擴大Mütterrente III 聯邦與社會保險支出成長快於收入 總理Merz接受報告">
+<h3>政府經濟顧問建議取消「63 歲退休」：成長預測上修，但點燃新一輪退休論戰</h3>
+<p><strong>誰在建議：</strong>經濟專家委員會（Sachverständigenrat zur Begutachtung der gesamtwirtschaftlichen Entwicklung）依 1963 年的法律設立，由<strong>五位經濟學家</strong>組成，每年秋天向聯邦政府提交獨立的經濟評估，政府必須對報告提出書面回應，但不受其約束。因為成員固定是五位專家，德國媒體習慣稱他們為「Wirtschaftsweise」（經濟智者），中文常譯作「五賢人」。</p>
+<p><strong>成長預測大幅上修：</strong>委員會 <strong>11 月 11 日</strong>發表 2026/27 年度報告，把 2026 年的實質經濟成長預測從春季的 <strong>0.5% 上修到 1.3%</strong>，2027 年則從 0.8% 上修到 <strong>1.0%</strong>。委員會指出，主要動能來自<strong>出口回溫</strong>，以及政府在<strong>基礎建設、氣候保護與國防</strong>上的支出；春季報告之所以保守，是因為當時伊朗戰爭推升能源價格、壓抑景氣。這次上修的方向與 9 月主要經濟研究機構的秋季聯合預測（2026 年同為 1.3%）一致。</p>
 <p><strong>退休制度成為焦點：</strong>報告最受矚目的是撙節建議。委員會主張取消<strong>「63 歲退休」</strong>——正式名稱是「特長年資投保者免扣減退休金」（abschlagsfreie Rente für besonders langjährig Versicherte），繳滿 45 年保費的人可提前退休、不必扣減年金；這個名稱其實早已名不符實，法定提前門檻已隨出生年次逐步提高。委員會也建議撤回聯合政府已通過的<strong>母親年金擴大（Mütterrente III）</strong>，也就是讓 1992 年以前出生子女的育兒年資進一步加計，理由是對聯邦預算負擔過重；另據報導，委員會也主張完整落實退休保障委員會（Alterssicherungskommission）的建議。</p>
 <p><strong>為何要砍：</strong>委員會的核心論點是，<strong>聯邦與社會保險的支出成長快於收入</strong>，即使經濟回溫，光靠成長也補不了缺口；另有報導引述報告，指以舉債支應的國防支出可能讓長期財政缺口持續擴大。換句話說，這份報告雖然上修了成長，傳達的卻是「好消息不夠用」的訊息。</p>
 <p><strong>政策觀察：</strong>年度報告<strong>沒有法律約束力</strong>，但它是政府與國會討論經濟政策的重要參考。總理 Merz 接受報告時表示大致認同委員會對財政的判斷；不過「63 歲退休」與母親年金分別是 SPD 與 CSU 的代表性政策，聯合政府內部要動這兩項並不容易。關於「45 年」年資是否該納入育兒與照護期間的討論，可參考本站 <a href="#oct19-25">W43 的整理</a>。對已在德國工作、繳納退休保險的讀者來說，眼前不會有立即改變，但退休年齡與給付條件仍在變動，建議定期查看德國退休保險（Deutsche Rentenversicherung）寄來的年金資訊（Renteninformation）。</p>
@@ -1370,7 +1371,7 @@ const POSTS = [
 <p class="post-sources">📚 來源：<a href="https://www.handelsblatt.com/unternehmen/industrie/mercedes-autohersteller-stoppt-alle-investitionen-in-deutschland/100269485.html" target="_blank" rel="noopener noreferrer">Handelsblatt：Mercedes stoppt alle Investitionen in Deutschland</a> · <a href="https://www.stuttgarter-zeitung.de/wirtschaft/internes-interview-noch-mehr-jobs-in-gefahr-mercedes-stoppt-alle-investitionen-in-deutschland-79696560.html" target="_blank" rel="noopener noreferrer">Stuttgarter Zeitung：Mercedes stoppt alle Investitionen in Deutschland</a> · <a href="https://www.handelsblatt.com/unternehmen/industrie/volkswagen-vw-stoppt-projekt-gamechanger-was-wirklich-dahintersteckt/100269104.html" target="_blank" rel="noopener noreferrer">Handelsblatt：VW stoppt Projekt „Gamechanger“</a> · <a href="https://www.wiwo.de/unternehmen/auto/vw-stoppt-gamechanger-aus-fuer-grossguss-empoert-betriebsrat/100269111.html" target="_blank" rel="noopener noreferrer">WirtschaftsWoche：Aus für Großguss empört Betriebsrat</a> · <a href="https://www.onvista.de/news/2026/11-11-vw-stoppt-produktionsprojekt-gamechanger-0-20-26575142" target="_blank" rel="noopener noreferrer">onvista（Reuters）：VW stoppt Produktionsprojekt „Gamechanger“</a> · <a href="https://www.igmetall-wob.de/meldung/konzernvorstand-beerdigt-gamechanger-1" target="_blank" rel="noopener noreferrer">IG Metall Wolfsburg：Konzernvorstand beerdigt Gamechanger</a> · <a href="https://www.t-online.de/finanzen/aktuelles/wirtschaft/id_101495606/volkswagen-will-12000-weitere-stellen-abbauen.html" target="_blank" rel="noopener noreferrer">t-online：Volkswagen will 12.000 weitere Stellen abbauen</a> · <a href="https://www.auto-motor-und-sport.de/verkehr/vw-stellenabbau-weitere-12-000-arbeitsplaetze-bedroht/" target="_blank" rel="noopener noreferrer">auto motor und sport：Weitere 12.000 Arbeitsplätze bedroht</a> · <a href="https://www.handelsblatt.com/unternehmen/industrie/autobauer-audi-will-mit-betriebsrat-ueber-weitere-einsparungen-verhandeln/100260842.html" target="_blank" rel="noopener noreferrer">Handelsblatt：Audi will mit Betriebsrat über weitere Einsparungen verhandeln</a> · <a href="https://www.boersen-zeitung.de/unternehmen-branchen/schlechtwetter-in-neckarsulm-audi-bereitet-stellenabbau-vor" target="_blank" rel="noopener noreferrer">Börsen-Zeitung：Schlechtwetter in Neckarsulm</a> · <a href="https://www.audi.com/de/medieninformationen/betriebsrat-fordert-klarheit-und-zukunftsperspektiven-fuer-audi-18372" target="_blank" rel="noopener noreferrer">Audi：Betriebsrat fordert Klarheit und Zukunftsperspektiven</a> · <a href="https://www.handelsblatt.com/politik/deutschland/autoindustrie-sparprogramm-sorgt-fuer-gewinnwarnung-bei-bmw/100267102.html" target="_blank" rel="noopener noreferrer">Handelsblatt：Sparprogramm sorgt für Gewinnwarnung bei BMW</a> · <a href="https://www.elektroauto-news.net/news/viele-wollen-weg-bmw-beendet-abfindungsprogramm-vorzeitig" target="_blank" rel="noopener noreferrer">elektroauto-news：BMW beendet Abfindungsprogramm vorzeitig</a> · <a href="https://www.kurierverlag.de/wirtschaft/wkw-autozulieferer-insolvenz-verkauf-450-jobs-gestrichen-mitarbeiter-gehaltsverzicht-zr-94579327.html" target="_blank" rel="noopener noreferrer">Kurierverlag：WKW nach Insolvenz verkauft</a></p>
 
 <img src="assets/images/2026/weekly/W46_圖卡4_IGMetall決議24小時罷工.png" alt="德國金屬電機業團體協約協商Metall- und Elektroindustrie Tarifrunde 2026 第三輪協商11月9日無果 IG Metall各工會區11月11日申請24小時警告罷工24-Stunden-Warnstreiks 總部11月12日全票通過 2018年以來首次 選定工廠11月13日起會員投票須過半同意 第四輪協商未排定 首波警告罷工逾40萬人次 IG Metall要求12個月加薪5% 資方Gesamtmetall提2027年一次性給付 2028年7月調薪1.3% 約370萬名員工">
-<h3>IG Metall 決議發動 24 小時警告罷工：2018 年以來首次，選定工廠 11/13 起投票</h3>
+<h3>金屬業工會 IG Metall 決議發動 24 小時警告罷工：2018 年以來首次，選定工廠 11/13 起投票</h3>
 <p><strong>從幾小時到一整天：</strong>金屬電機業約 <strong>370 萬名員工</strong>適用的團體協約協商，第三輪談判在 <strong>11 月 9 日</strong>無果而終。各工會區的協約委員會 <strong>11 月 11 日</strong>向 IG Metall 總部申請發動<strong>24 小時警告罷工</strong>，總部 <strong>11 月 12 日全票通過</strong>——這是 IG Metall <strong>2018 年以來第一次</strong>動用全天警告罷工。依 ZDF 的說法，這是發動罷工投票（Urabstimmung）與無限期罷工之前的最後一個升級階段。依工會規定，被選定的工廠從 <strong>11 月 13 日</strong>起讓會員投票，<strong>過半同意</strong>才能實施；哪些工廠、哪一天罷工，工會尚未公布，第四輪協商也還沒排定。</p>
 <p><strong>雙方差距：</strong>IG Metall 要求 <strong>12 個月加薪 5%</strong>，並要求保障就業。資方提出的方案是 <strong>2027 年 7 月一次性給付</strong>，<strong>2028 年 7 月起才永久調薪 1.3%</strong>，遭工會拒絕。和平義務 10 月 31 日結束後（見本站 <a href="#oct26-nov1">W44</a>），工會從 11 月 1 日起發動第一波數小時的警告罷工，依 IG Metall 統計參與人次<strong>已逾 40 萬</strong>（巴伐利亞邦約 7.5 萬人次）。巴伐利亞邦工會區已表示，在可能的 24 小時罷工之前不會再排新的協商日期。</p>
 <p><strong>各方觀點：</strong>工會把就業保障與加薪綁在一起，主因是汽車業與供應商接連宣布裁員；資方則以產業危機為由壓低調薪幅度，並希望保留讓陷入困境的企業偏離協約的彈性。據報導，雙方在<strong>薪資、企業例外條款與就業保障</strong>三方面都還相距甚遠，目前也沒有排定下一輪協商日期。</p>

diff --git a/scripts/cardgen/make_weekly_cards.py b/scripts/cardgen/make_weekly_cards.py
@@ -2713,7 +2713,7 @@ DATE_RANGE = '2026/11/09-11/15'
 CARDS = [
  dict(
   theme='#2E8B57', badges=[('經濟與退休', True), ('年度報告', False)], illu='barometer',
-  title='五賢人上修成長，建議取消「63 歲退休」',
+  title='政府經濟顧問建議取消「63 歲退休」',
   subtitle='經濟專家委員會 11/11 年度報告：成長上修，但要求撙節',
   stats=[('1.3%', '2026 年經濟成長預測'),
          ('1.0%', '2027 年成長預測（原 0.8%）')],
@@ -2723,7 +2723,7 @@ CARDS = [
    ('財政警訊', '聯邦與社會保險支出成長快於收入，委員會認為光靠經濟成長補不了缺口。'),
   ],
   takeaway=('政策觀察', '報告沒有約束力；總理 Merz 接受報告時表示大致認同，但退休議題牽動聯合執政的 SPD，能否落實仍是未知數。'),
-  file='W46_圖卡1_五賢人建議取消63歲退休.png'),
+  file='W46_圖卡1_經濟顧問建議取消63歲退休.png'),
  dict(
   theme='#D4740E', badges=[('能源', True), ('瓦斯費', False)], illu='gastank',
   title='天然氣儲備過內閣：2027/10 起加收費',
@@ -2752,8 +2752,8 @@ CARDS = [
   file='W46_圖卡3_賓士凍結投資福斯喊停改造.png'),
  dict(
   theme='#C0392B', badges=[('勞資協商', True), ('IG Metall', False)], illu='protestsign',
-  title='IG Metall 決議發動 24 小時警告罷工',
-  subtitle='總部 11/12 全票通過、2018 年以來首次；約 370 萬名員工適用',
+  title='金屬業工會決議發動 24 小時警告罷工',
+  subtitle='IG Metall 總部 11/12 全票通過、2018 年以來首次；約 370 萬人適用',
   stats=[('逾 40 萬人', '首波警告罷工參與人次'),
          ('5%', '工會要求的 12 個月加薪幅度')],
   bullets=[

diff --git a/CLAUDE.md b/CLAUDE.md
@@ -180,6 +180,7 @@
   相關性自然寫進內文即可，底部觀察框標籤請依主題分別取名，例如
   影響評估／因應建議／訂票提醒／看球提醒／數據解讀／觀察重點／政策觀察 等；
   最多一張卡用「對在德台灣人的意義」，切勿每張重複同一標題。
+- **標題要淺顯易懂（用戶 2026/11/12 要求）**：圖卡標題、`<h3>`／TOC／`<h2>`、FB／IG／Threads 的題目行，一律用一般讀者不看內文也懂的說法。德媒俗稱或機構簡稱**不進標題**，改放副標或內文並解釋由來——例：❌「五賢人上修成長…」→ ✅「政府經濟顧問建議取消「63 歲退休」」，內文再說明經濟專家委員會由五位經濟學家組成、德媒俗稱 Wirtschaftsweise、中文常譯「五賢人」；❌「IG Metall 決議…」→ ✅「金屬業工會決議…」（IG Metall 放副標）。
 - **用專業術語、勿自創口語**：避免「錢的攤牌」「大撒幣」這類口語化標題；
   例：歐盟七年期預算寫「多年期財政框架（MFR / MFF）」，不要寫「錢怎麼分／錢的攤牌」。
 - 🚫 **禁用「白拿」**（用戶 2026/09/16 二度糾正）：貼文與圖卡標題不可寫
